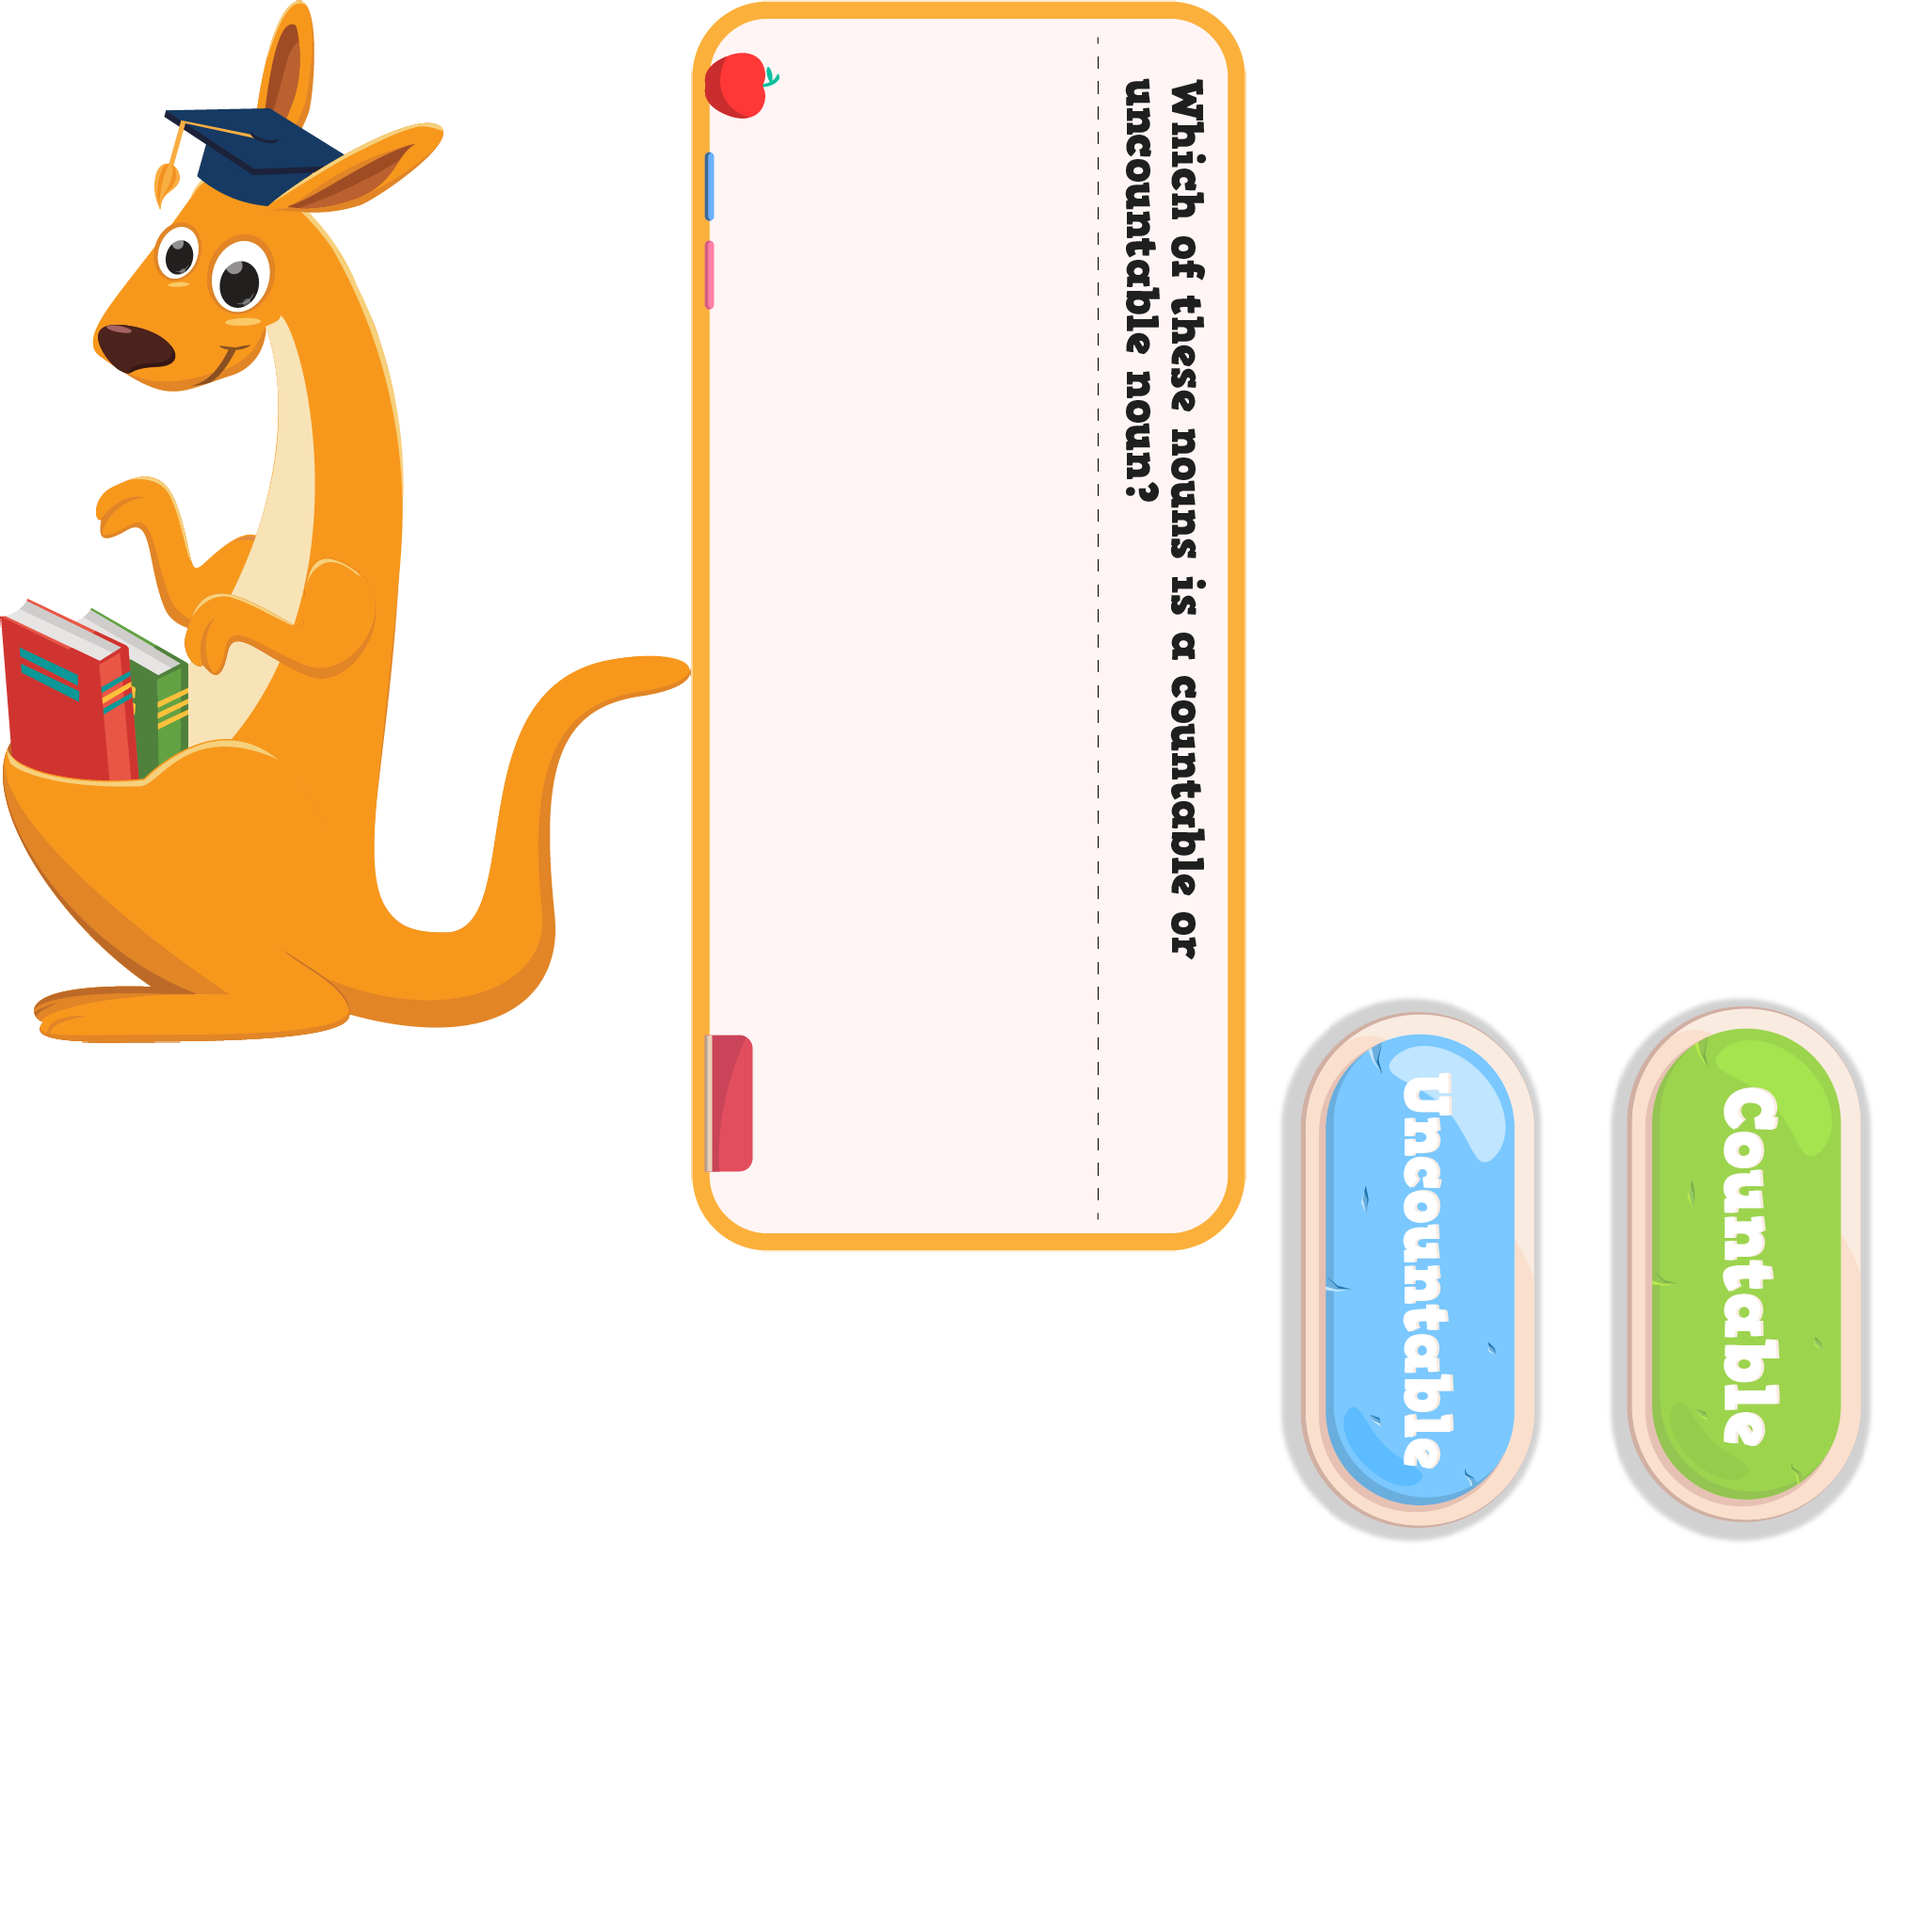
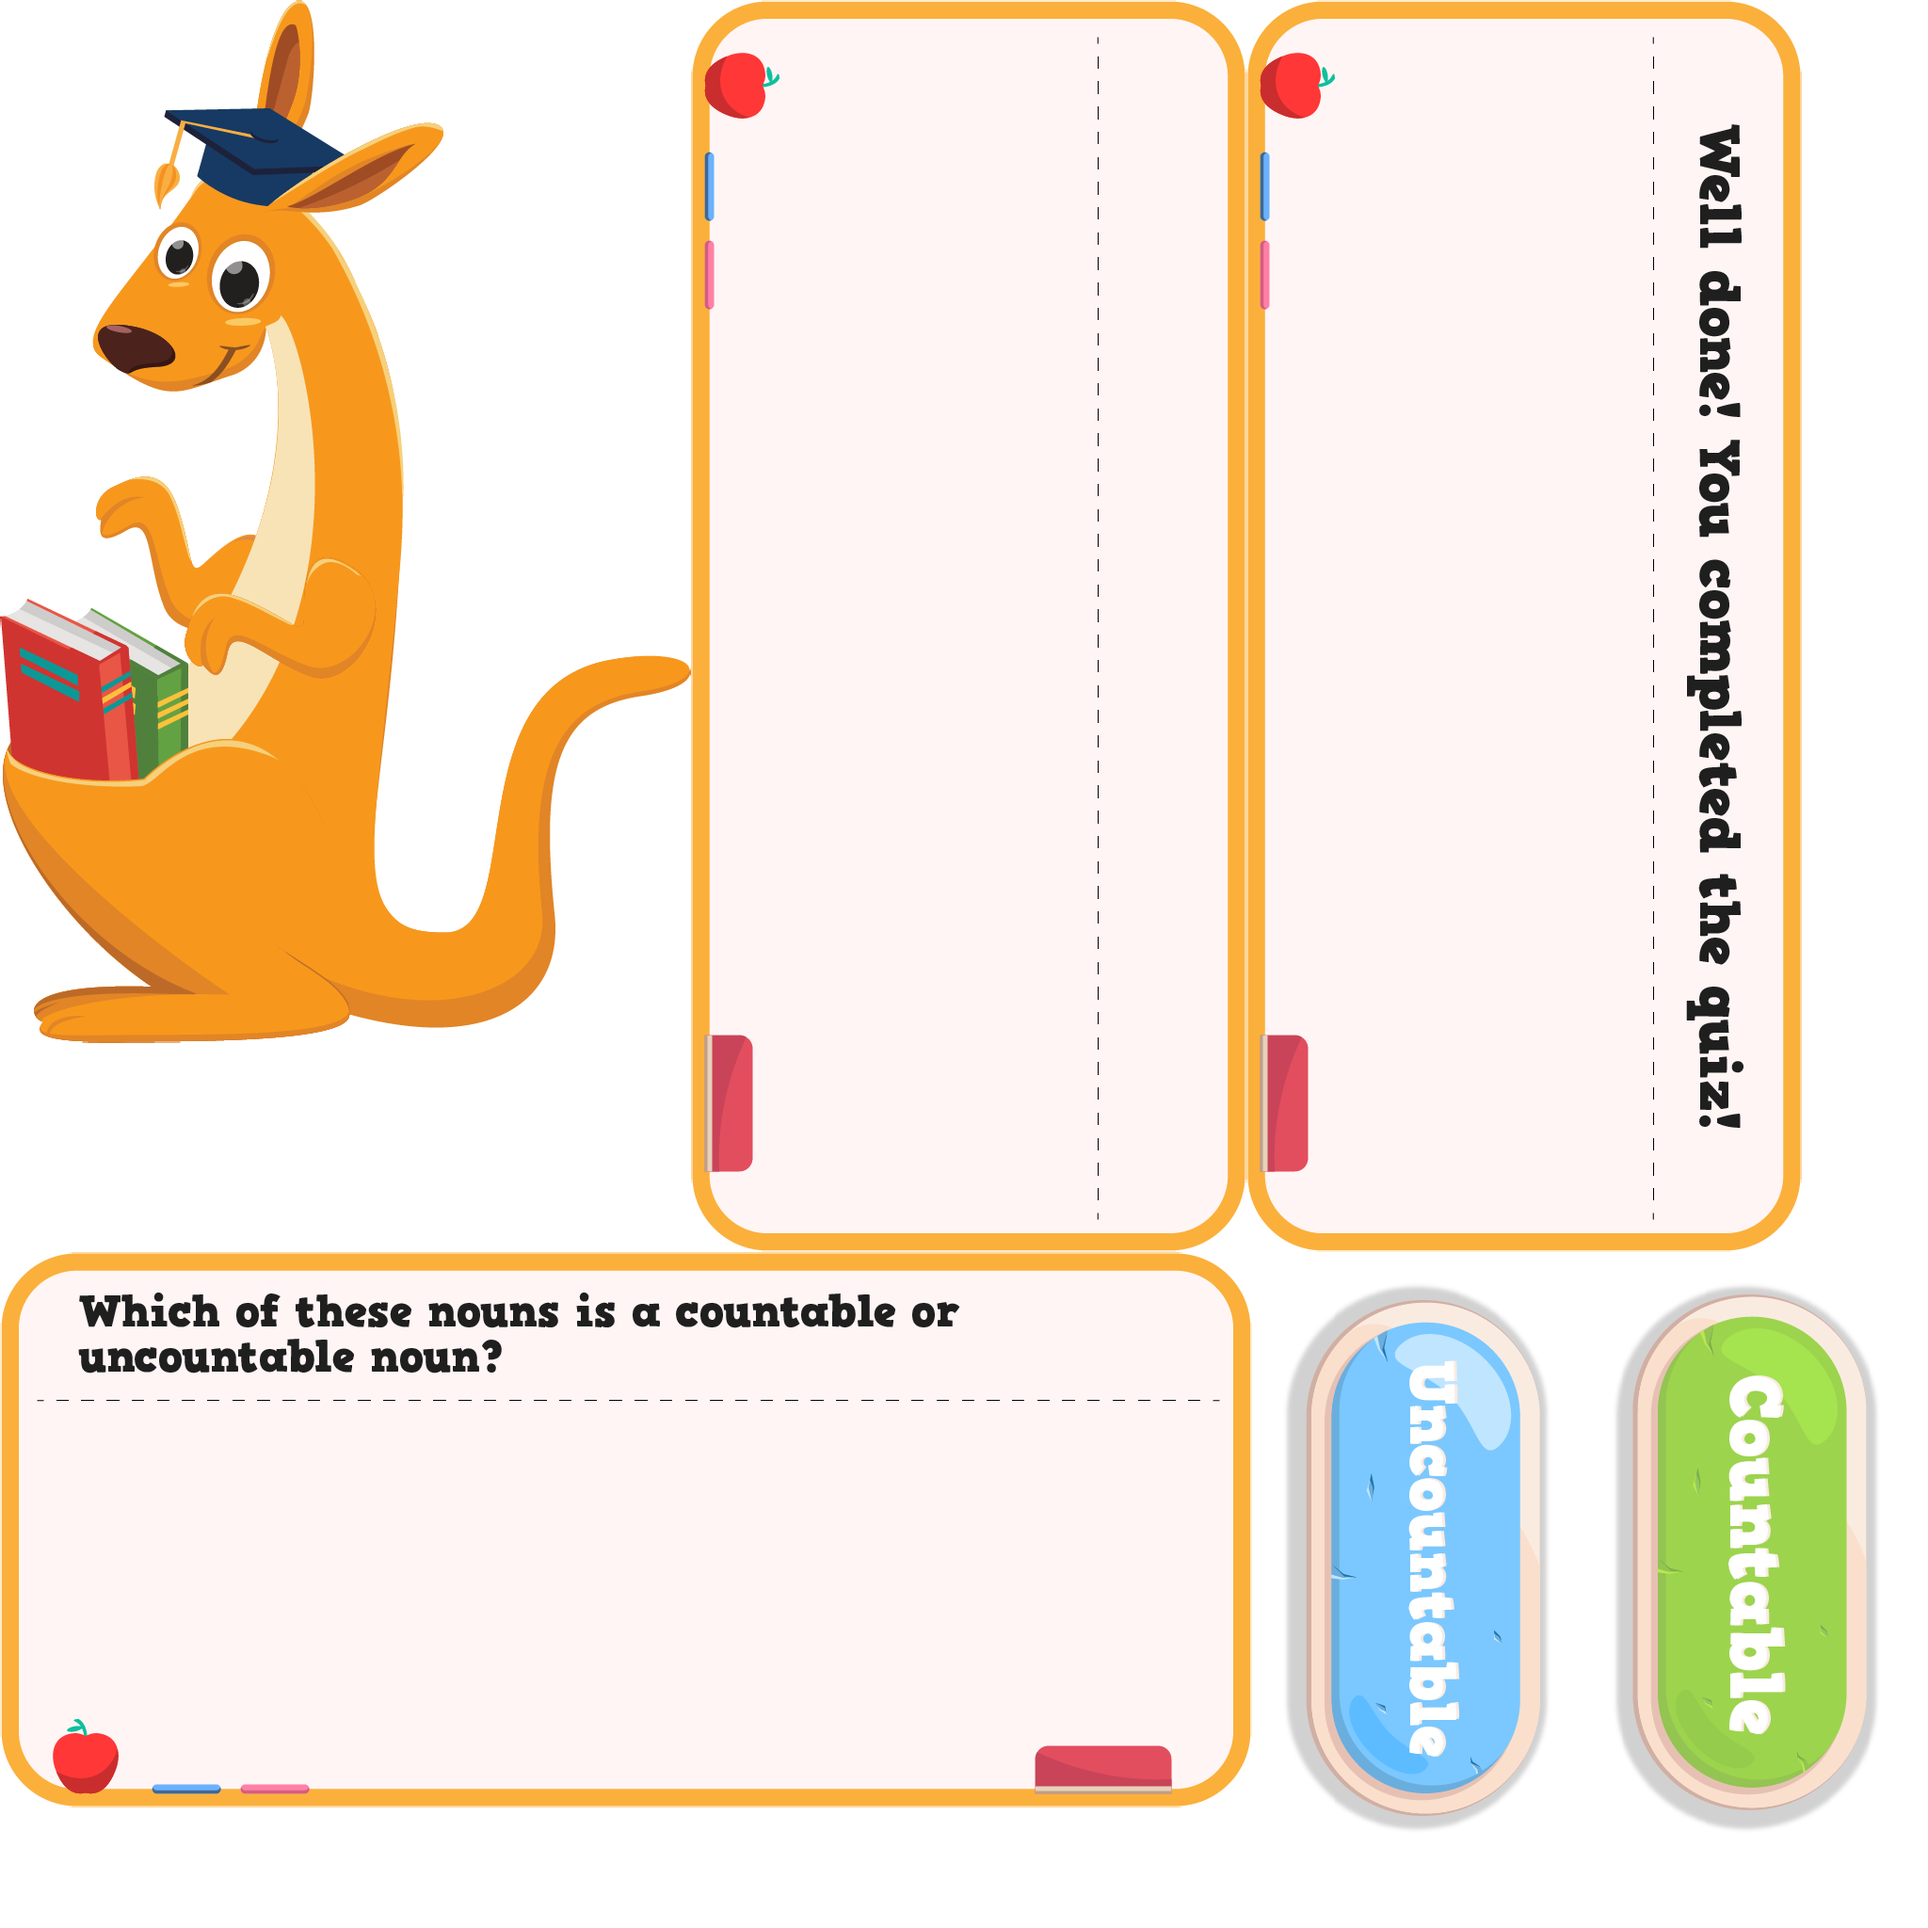
0.2

Changed region(s): [[0.0, 0.0, 1.0, 0.9688]]

diff --git a/scripts/c3runtime.js b/scripts/c3runtime.js
@@ -3752,11 +3752,35 @@ opts.startValue,endValue,time,easeIndex,!!opts.destroyOnComplete,!!opts.loop,!!o
 }
 
 {
+'use strict';{const C3=self.C3;C3.Behaviors.Pin=class PinBehavior extends C3.SDKBehaviorBase{constructor(opts){super(opts)}Release(){super.Release()}}}{const C3=self.C3;C3.Behaviors.Pin.Type=class PinType extends C3.SDKBehaviorTypeBase{constructor(behaviorType){super(behaviorType)}Release(){super.Release()}OnCreate(){}}}
+{const C3=self.C3;C3.Behaviors.Pin.Instance=class PinInstance extends C3.SDKBehaviorInstanceBase{constructor(behInst,properties){super(behInst);this._pinInst=null;this._pinUid=-1;this._mode="";this._propSet=new Set;this._pinDist=0;this._pinAngle=0;this._pinImagePoint=0;this._dx=0;this._dy=0;this._dWidth=0;this._dHeight=0;this._dAngle=0;this._dz=0;this._lastKnownAngle=0;this._destroy=false;if(properties)this._destroy=properties[0];const rt=this._runtime.Dispatcher();this._disposables=new C3.CompositeDisposable(C3.Disposable.From(rt,
+"instancedestroy",e=>this._OnInstanceDestroyed(e.instance)),C3.Disposable.From(rt,"afterload",e=>this._OnAfterLoad()))}Release(){this._pinInst=null;super.Release()}_SetPinInst(inst){if(inst){this._pinInst=inst;this._StartTicking2()}else{this._pinInst=null;this._StopTicking2()}}_Pin(objectClass,mode,propList){if(!objectClass)return;const otherInst=objectClass.GetFirstPicked(this._inst);if(!otherInst)return;this._mode=mode;this._SetPinInst(otherInst);const myWi=this._inst.GetWorldInfo();const otherWi=
+otherInst.GetWorldInfo();if(this._mode==="properties"){const propSet=this._propSet;propSet.clear();for(const p of propList)propSet.add(p);this._dx=myWi.GetX()-otherWi.GetX();this._dy=myWi.GetY()-otherWi.GetY();this._dAngle=myWi.GetAngle()-otherWi.GetAngle();this._lastKnownAngle=myWi.GetAngle();this._dz=myWi.GetZElevation()-otherWi.GetZElevation();if(propSet.has("x")&&propSet.has("y")){this._pinAngle=C3.angleTo(otherWi.GetX(),otherWi.GetY(),myWi.GetX(),myWi.GetY())-otherWi.GetAngle();this._pinDist=
+C3.distanceTo(otherWi.GetX(),otherWi.GetY(),myWi.GetX(),myWi.GetY())}if(propSet.has("width-abs"))this._dWidth=myWi.GetWidth()-otherWi.GetWidth();else if(propSet.has("width-scale"))this._dWidth=myWi.GetWidth()/otherWi.GetWidth();if(propSet.has("height-abs"))this._dHeight=myWi.GetHeight()-otherWi.GetHeight();else if(propSet.has("height-scale"))this._dHeight=myWi.GetHeight()/otherWi.GetHeight()}else this._pinDist=C3.distanceTo(otherWi.GetX(),otherWi.GetY(),myWi.GetX(),myWi.GetY())}SaveToJson(){const propSet=
+this._propSet;const mode=this._mode;const ret={"uid":this._pinInst?this._pinInst.GetUID():-1,"m":mode,"d":this._destroy};if(mode==="rope"||mode==="bar")ret["pd"]=this._pinDist;else if(mode==="properties"){ret["ps"]=[...this._propSet];if(propSet.has("imagepoint"))ret["ip"]=this._pinImagePoint;else if(propSet.has("x")&&propSet.has("y")){ret["pa"]=this._pinAngle;ret["pd"]=this._pinDist}else{if(propSet.has("x"))ret["dx"]=this._dx;if(propSet.has("y"))ret["dy"]=this._dy}if(propSet.has("angle")){ret["da"]=
+this._dAngle;ret["lka"]=this._lastKnownAngle}if(propSet.has("width-abs")||propSet.has("width-scale"))ret["dw"]=this._dWidth;if(propSet.has("height-abs")||propSet.has("height-scale"))ret["dh"]=this._dHeight;if(propSet.has("z"))ret["dz"]=this._dz}return ret}LoadFromJson(o){const mode=o["m"];const propSet=this._propSet;propSet.clear();this._pinUid=o["uid"];if(typeof mode==="number"){this._LoadFromJson_Legacy(o);return}this._mode=mode;if(o.hasOwnProperty("d"))this._destroy=!!o["d"];if(mode==="rope"||
+mode==="bar")this._pinDist=o["pd"];else if(mode==="properties"){for(const p of o["ps"])propSet.add(p);if(propSet.has("imagepoint"))this._pinImagePoint=o["ip"];else if(propSet.has("x")&&propSet.has("y")){this._pinAngle=o["pa"];this._pinDist=o["pd"]}else{if(propSet.has("x"))this._dx=o["dx"];if(propSet.has("y"))this._dy=o["dy"]}if(propSet.has("angle")){this._dAngle=o["da"];this._lastKnownAngle=o["lka"]||0}if(propSet.has("width-abs")||propSet.has("width-scale"))this._dWidth=o["dw"];if(propSet.has("height-abs")||
+propSet.has("height-scale"))this._dHeight=o["dh"];if(propSet.has("z"))this._dz=o["dz"]}}_LoadFromJson_Legacy(o){const propSet=this._propSet;const myStartAngle=o["msa"];const theirStartAngle=o["tsa"];const pinAngle=o["pa"];const pinDist=o["pd"];const mode=o["m"];switch(mode){case 0:this._mode="properties";propSet.add("x").add("y").add("angle");this._pinAngle=pinAngle;this._pinDist=pinDist;this._dAngle=myStartAngle-theirStartAngle;this._lastKnownAngle=o["lka"];break;case 1:this._mode="properties";propSet.add("x").add("y");
+this._pinAngle=pinAngle;this._pinDist=pinDist;break;case 2:this._mode="properties";propSet.add("angle");this._dAngle=myStartAngle-theirStartAngle;this._lastKnownAngle=o["lka"];break;case 3:this._mode="rope";this._pinDist=o["pd"];break;case 4:this._mode="bar";this._pinDist=o["pd"];break}}_OnAfterLoad(){if(this._pinUid===-1)this._SetPinInst(null);else{this._SetPinInst(this._runtime.GetInstanceByUID(this._pinUid));this._pinUid=-1}}_OnInstanceDestroyed(inst){if(this._pinInst===inst){this._SetPinInst(null);
+if(this._destroy)this._runtime.DestroyInstance(this._inst)}}Tick2(){const pinInst=this._pinInst;if(!pinInst)return;const pinWi=pinInst.GetWorldInfo();const myInst=this._inst;const myWi=myInst.GetWorldInfo();const mode=this._mode;let bboxChanged=false;if(mode==="rope"||mode==="bar"){const dist=C3.distanceTo(myWi.GetX(),myWi.GetY(),pinWi.GetX(),pinWi.GetY());if(dist>this._pinDist||mode==="bar"&&dist<this._pinDist){const a=C3.angleTo(pinWi.GetX(),pinWi.GetY(),myWi.GetX(),myWi.GetY());myWi.SetXY(pinWi.GetX()+
+Math.cos(a)*this._pinDist,pinWi.GetY()+Math.sin(a)*this._pinDist);bboxChanged=true}}else{const propSet=this._propSet;let v=0;if(propSet.has("imagepoint")){const [newX,newY]=pinInst.GetImagePoint(this._pinImagePoint);if(!myWi.EqualsXY(newX,newY)){myWi.SetXY(newX,newY);bboxChanged=true}}else if(propSet.has("x")&&propSet.has("y")){const newX=pinWi.GetX()+Math.cos(pinWi.GetAngle()+this._pinAngle)*this._pinDist;const newY=pinWi.GetY()+Math.sin(pinWi.GetAngle()+this._pinAngle)*this._pinDist;if(!myWi.EqualsXY(newX,
+newY)){myWi.SetXY(newX,newY);bboxChanged=true}}else{v=pinWi.GetX()+this._dx;if(propSet.has("x")&&v!==myWi.GetX()){myWi.SetX(v);bboxChanged=true}v=pinWi.GetY()+this._dy;if(propSet.has("y")&&v!==myWi.GetY()){myWi.SetY(v);bboxChanged=true}}if(propSet.has("angle")){if(this._lastKnownAngle!==myWi.GetAngle())this._dAngle=C3.clampAngle(this._dAngle+(myWi.GetAngle()-this._lastKnownAngle));v=C3.clampAngle(pinWi.GetAngle()+this._dAngle);if(v!==myWi.GetAngle()){myWi.SetAngle(v);bboxChanged=true}this._lastKnownAngle=
+myWi.GetAngle()}if(propSet.has("width-abs")){v=pinWi.GetWidth()+this._dWidth;if(v!==myWi.GetWidth()){myWi.SetWidth(v);bboxChanged=true}}if(propSet.has("width-scale")){v=pinWi.GetWidth()*this._dWidth;if(v!==myWi.GetWidth()){myWi.SetWidth(v);bboxChanged=true}}if(propSet.has("height-abs")){v=pinWi.GetHeight()+this._dHeight;if(v!==myWi.GetHeight()){myWi.SetHeight(v);bboxChanged=true}}if(propSet.has("height-scale")){v=pinWi.GetHeight()*this._dHeight;if(v!==myWi.GetHeight()){myWi.SetHeight(v);bboxChanged=
+true}}if(propSet.has("z")){v=pinWi.GetZElevation()+this._dz;if(v!==myWi.GetZElevation()){myWi.SetZElevation(v);this._runtime.UpdateRender()}}}if(bboxChanged)myWi.SetBboxChanged()}GetDebuggerProperties(){const prefix="behaviors.pin.debugger";return[{title:"$"+this.GetBehaviorType().GetName(),properties:[{name:prefix+".is-pinned",value:!!this._pinInst},{name:prefix+".pinned-uid",value:this._pinInst?this._pinInst.GetUID():0}]}]}}}
+{const C3=self.C3;C3.Behaviors.Pin.Cnds={IsPinned(){return!!this._pinInst},WillDestroy(){return this._destroy}}}
+{const C3=self.C3;C3.Behaviors.Pin.Acts={PinByDistance(objectClass,mode){this._Pin(objectClass,mode===0?"rope":"bar")},PinByProperties(objectClass,ex,ey,ea,ew,eh,ez){const propList=[];if(ex)propList.push("x");if(ey)propList.push("y");if(ea)propList.push("angle");if(ez)propList.push("z");if(ew===1)propList.push("width-abs");else if(ew===2)propList.push("width-scale");if(eh===1)propList.push("height-abs");else if(eh===2)propList.push("height-scale");if(propList.length===0)return;this._Pin(objectClass,
+"properties",propList)},PinByImagePoint(objectClass,imgPt,ea,ew,eh,ez){const propList=["imagepoint"];if(ea)propList.push("angle");if(ez)propList.push("z");if(ew===1)propList.push("width-abs");else if(ew===2)propList.push("width-scale");if(eh===1)propList.push("height-abs");else if(eh===2)propList.push("height-scale");this._pinImagePoint=imgPt;this._Pin(objectClass,"properties",propList)},SetPinDistance(d){if(this._mode==="rope"||this._mode==="bar")this._pinDist=Math.max(d,0)},SetDestroy(d){this._destroy=
+d},Unpin(){this._SetPinInst(null);this._mode="";this._propSet.clear();this._pinImagePoint=""},Pin(objectClass,mode){switch(mode){case 0:this._Pin(objectClass,"properties",["x","y","angle"]);break;case 1:this._Pin(objectClass,"properties",["x","y"]);break;case 2:this._Pin(objectClass,"properties",["angle"]);break;case 3:this._Pin(objectClass,"rope");break;case 4:this._Pin(objectClass,"bar");break}}}}{const C3=self.C3;C3.Behaviors.Pin.Exps={PinnedUID(){return this._pinInst?this._pinInst.GetUID():-1}}};
+
+}
+
+{
 const C3 = self.C3;
 self.C3_GetObjectRefTable = function () {
 	return [
 		C3.Plugins.Sprite,
 		C3.Behaviors.Tween,
+		C3.Behaviors.Pin,
 		C3.Plugins.TiledBg,
 		C3.Plugins.Touch,
 		C3.Plugins.Audio,
@@ -3767,6 +3791,7 @@ self.C3_GetObjectRefTable = function () {
 		C3.Plugins.Sprite.Acts.SetAnimFrame,
 		C3.Plugins.Sprite.Acts.SetInstanceVar,
 		C3.Behaviors.Tween.Acts.TweenOneProperty,
+		C3.Behaviors.Pin.Acts.PinByProperties,
 		C3.Plugins.Audio.Cnds.IsTagPlaying,
 		C3.Plugins.Audio.Acts.Play,
 		C3.Behaviors.Tween.Cnds.OnTweensFinished,
@@ -3793,6 +3818,7 @@ self.C3_JsPropNameTable = [
 	{Tween: 0},
 	{panel_q: 0},
 	{kangaroo: 0},
+	{Pin: 0},
 	{button_sound: 0},
 	{is: 0},
 	{object_image: 0},
@@ -3804,6 +3830,7 @@ self.C3_JsPropNameTable = [
 	{button_pop: 0},
 	{Touch: 0},
 	{Audio: 0},
+	{button_replay: 0},
 	{objects: 0},
 	{current_q_index: 0},
 	{answer: 0},
@@ -3938,10 +3965,12 @@ self.C3_ExpressionFuncs = [
 		},
 		() => 11,
 		() => "over",
+		() => 2,
+		() => 540,
+		() => 390,
 		() => 40,
 		() => "next",
 		() => "Answers",
-		() => 2,
 		() => 3,
 		() => 7,
 		() => 10,
